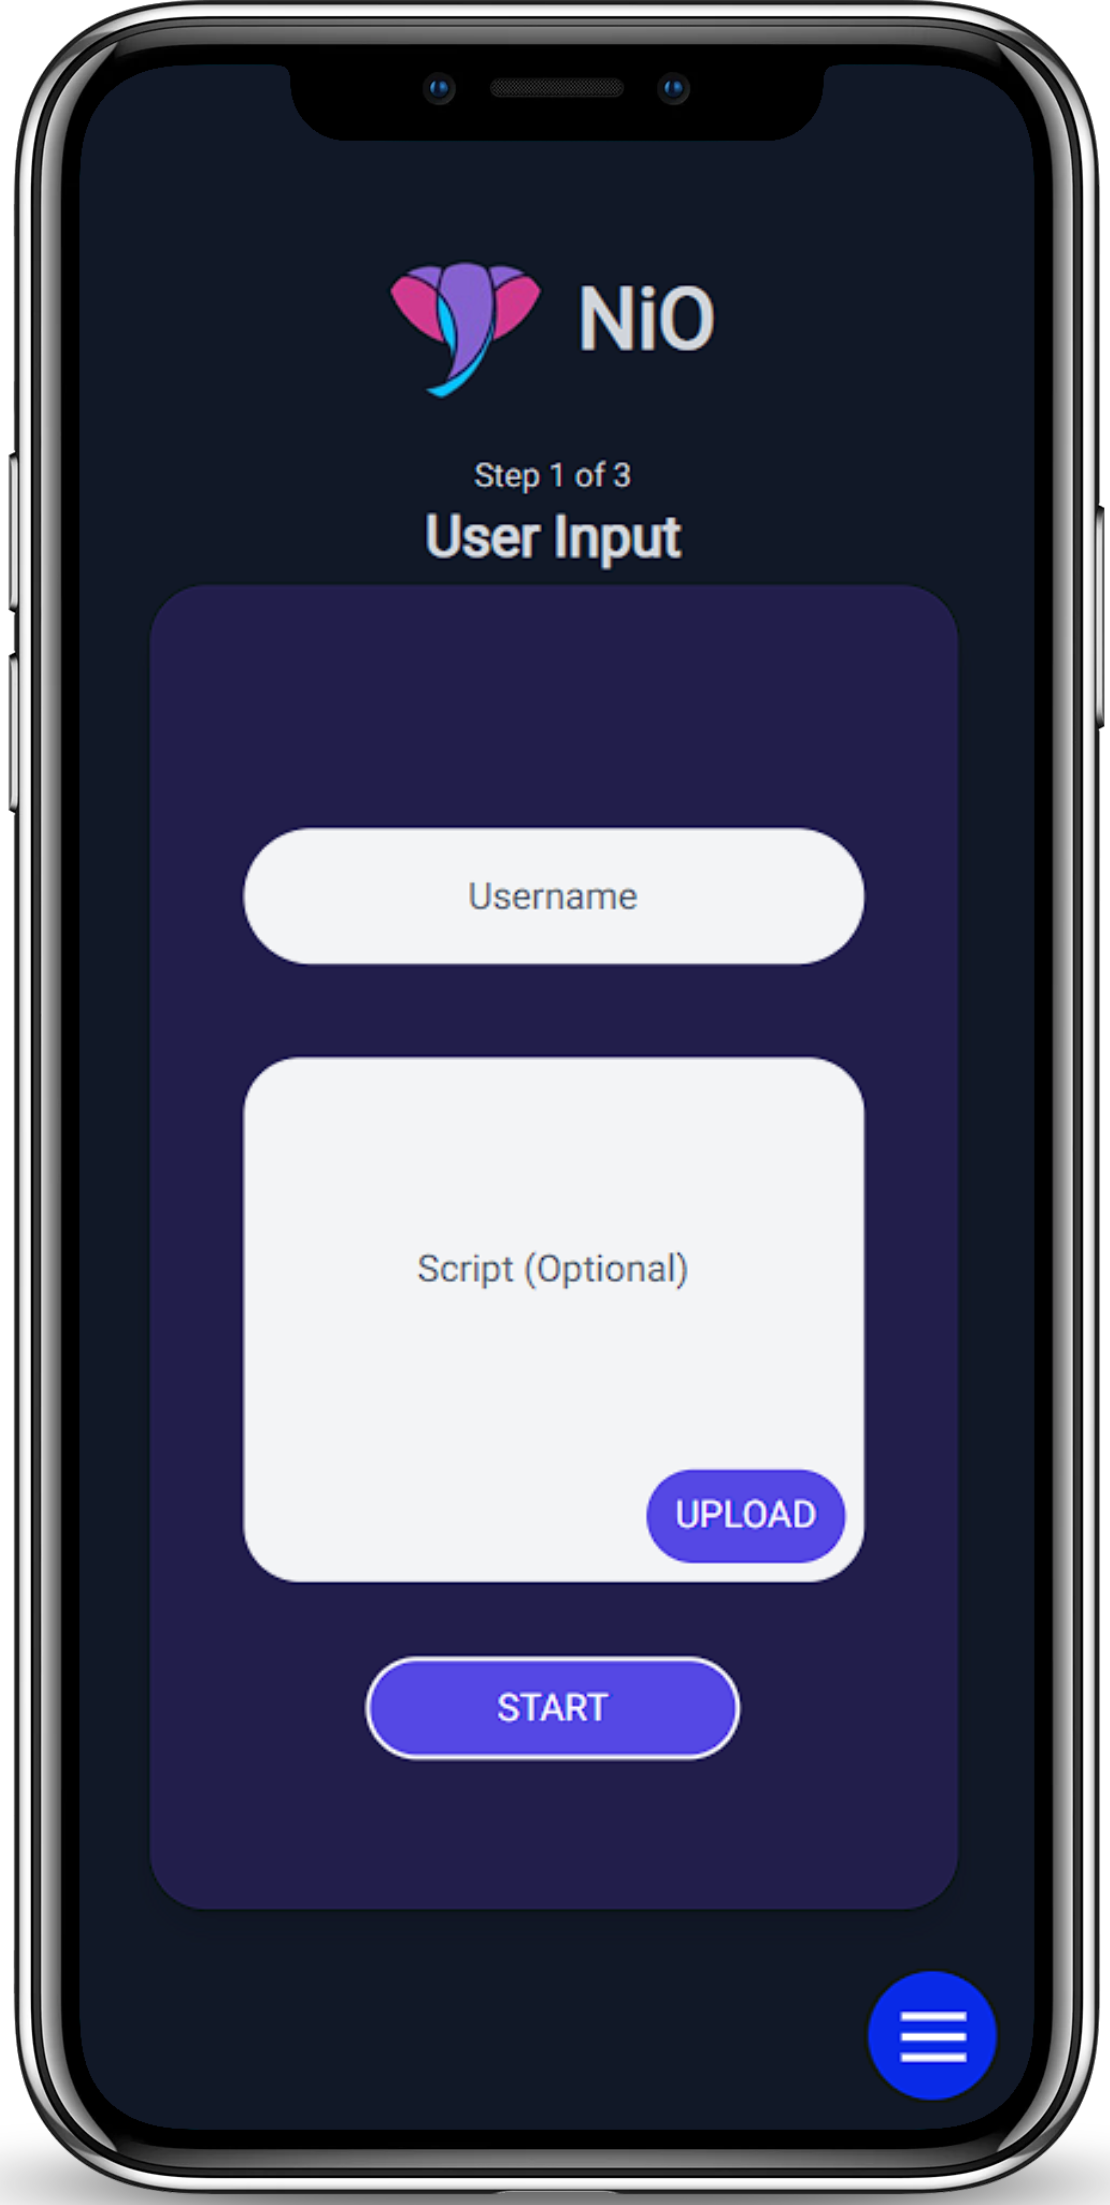
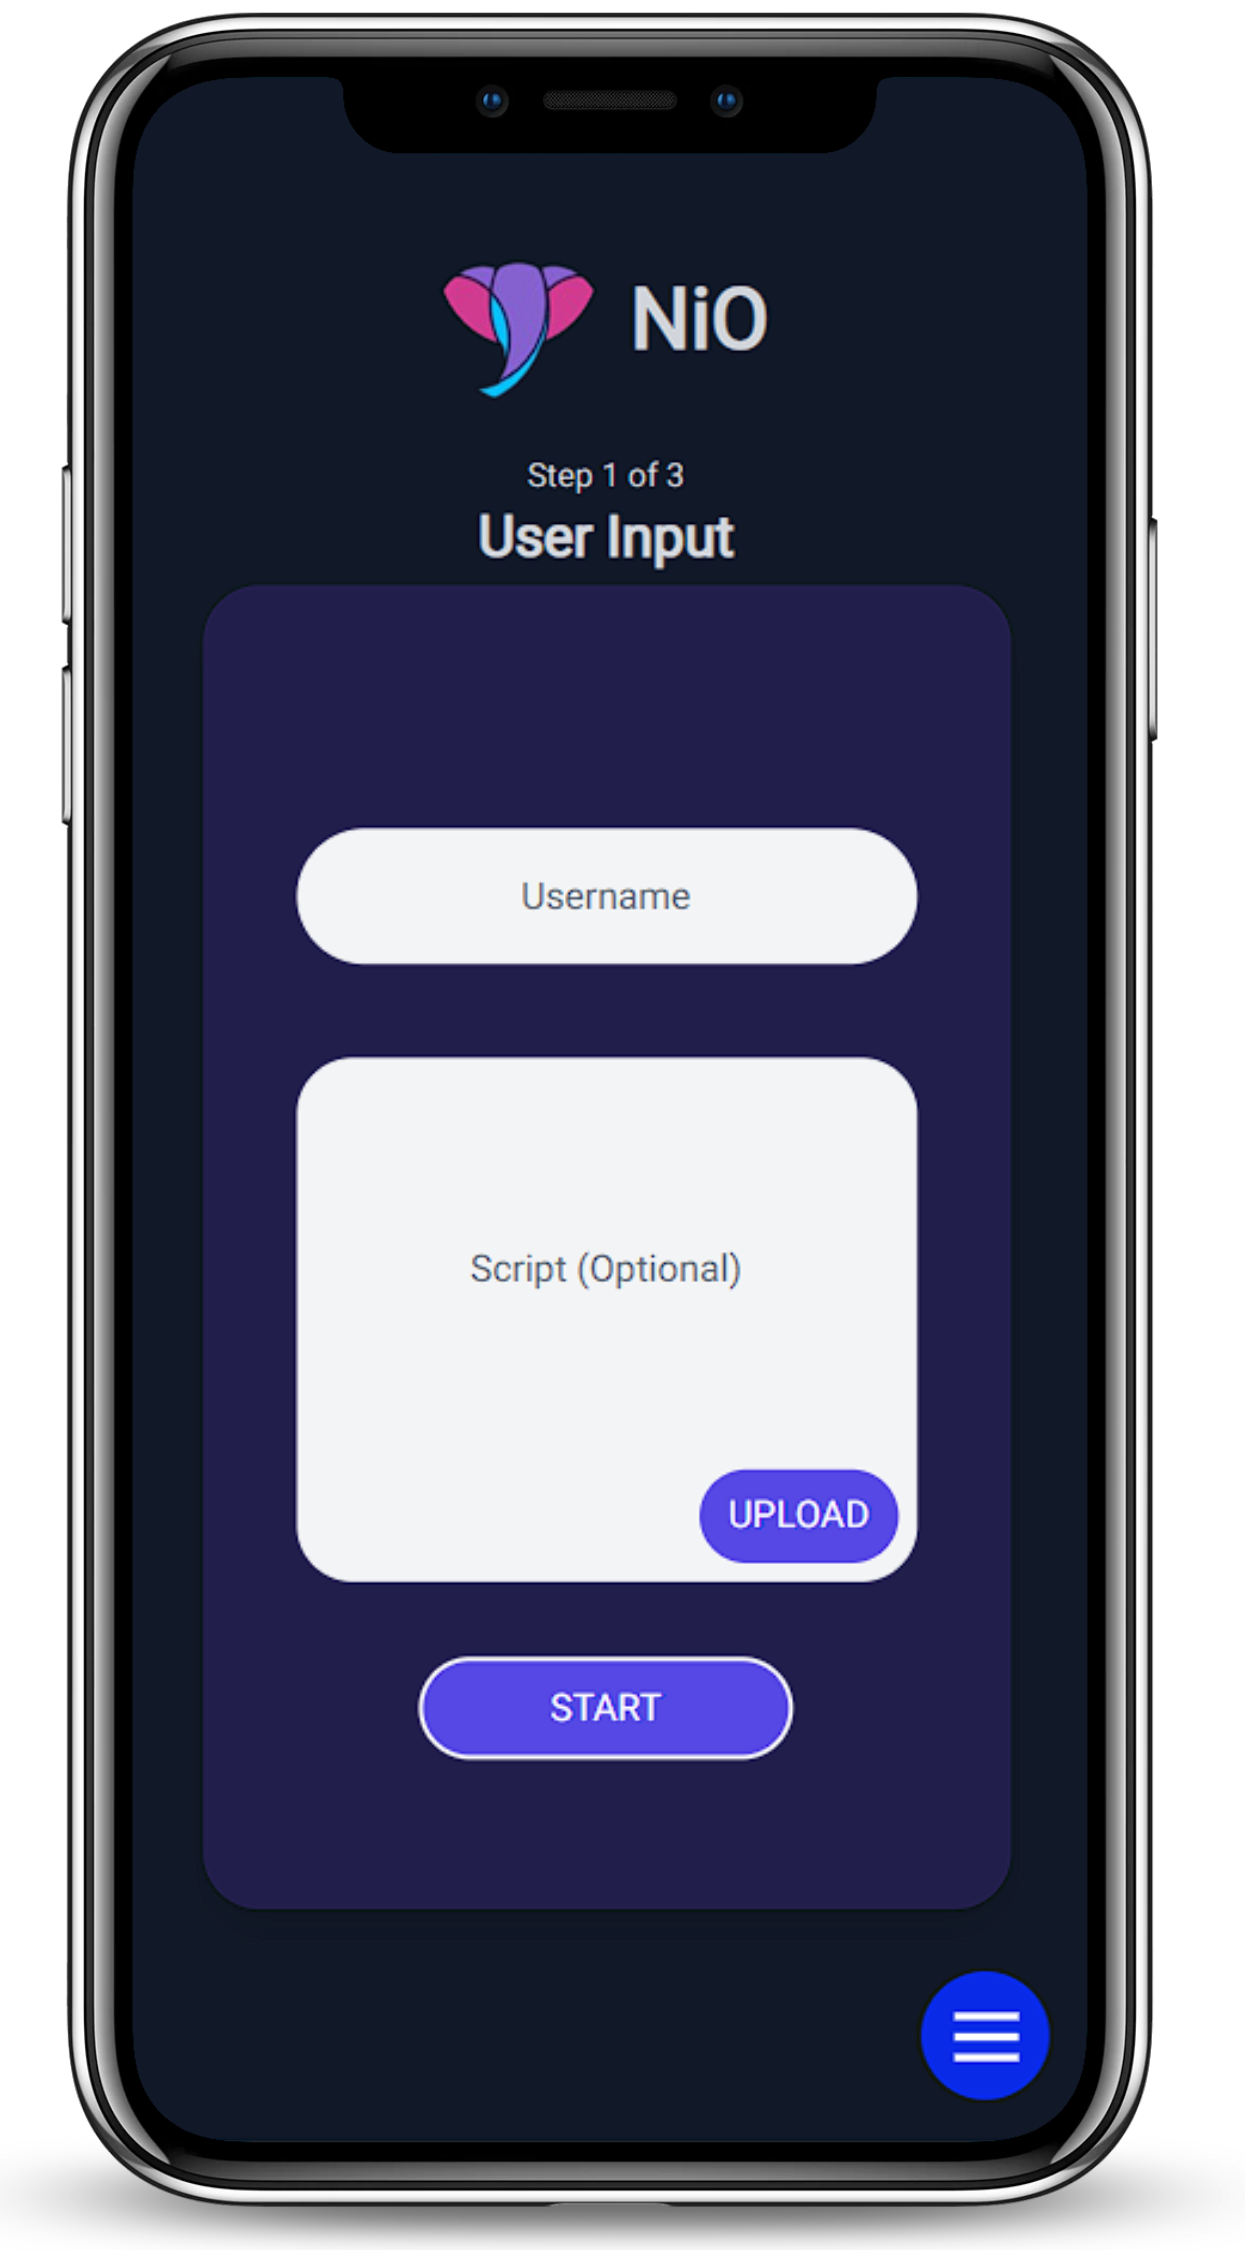
Edits made in get started page: - adjusted the top padding - edited the main picture - edited the pictures to have better shadows

diff --git a/project/templates/main.html b/project/templates/main.html
@@ -27,18 +27,24 @@
       <div
         class="relative z-10 flex flex-col items-center justify-center space-y-8 rounded-xl bg-white p-5 text-center dark:bg-[#2E2868]">
         <div class="text-sm text-gray-400 dark:text-gray-300">Step 2 of 3</div>
-        <div class="text-2xl font-bold capitalize text-gray-700 dark:text-gray-300">Record 1 - 5 minute audio</div>
-        <div id="notif" class="text-xl text-gray-800 dark:text-gray-300">Tap to start recording</div>
-
-        <div class="h-64">
-          <button id="record-btn" class="record" data-state="ready" value="Ready">
-            <span id="record-icon"></span>
-          </button>
-          <div id="reminder" class="mt-2 dark:text-gray-300">For best results, place your microhpone about 6-12 inches from your mouth</div>
-          <div id="countdown" class="mt-2 hidden text-2xl font-bold dark:text-white"></div>
-          <div id="timer" class="mt-2 hidden text-2xl font-bold dark:text-white">00:00</div>
+        <div class="relative">
+          <div class="text-2xl font-bold text-gray-700 dark:text-gray-300" style="padding-bottom: 0">Record your speech</div>
+          <div class="text-sm text-gray-700 dark:text-gray-400" style="padding-top: 0.5rem">Audio should not exceed 5 minutes</div>
         </div>
 
+        <div class="relative">
+          <div id="notif" class="text-xl text-gray-800 dark:text-gray-300" style="padding-bottom: 1.5rem">Tap the button to start recording</div>
+
+          <div class="h-64">
+            <button id="record-btn" class="record" data-state="ready" value="Ready">
+              <span id="record-icon"></span>
+            </button>
+
+            <div id="reminder" class="mt-2 dark:text-gray-300" style="padding-top:1rem">For best results, place your microphone about 6-12 inches from your mouth</div>
+            <div id="countdown" class="mt-2 hidden text-2xl font-bold dark:text-white"></div>
+            <div id="timer" class="mt-2 hidden text-2xl font-bold dark:text-white">00:00</div>
+          </div>
+        </div>
 
         <button data-popover-target="popover-default" type="button" class="text-gray-400 text-center">Privacy Policy</button>
         <div data-popover id="popover-default" role="tooltip" class="absolute z-10 invisible inline-block w-full text-sm text-gray-500 transition-opacity duration-300 bg-white border border-gray-900 rounded-lg shadow-sm opacity-0 dark:text-gray-400 dark:border-gray-600 dark:bg-gray-800">

diff --git a/project/templates/getstarted.html b/project/templates/getstarted.html
@@ -34,7 +34,7 @@
 					<div class="hero-particles-container">
 						<canvas id="hero-particles"></canvas>
 					</div>
-					<div class="container mx-auto px-4 sm:px-6 md:px-8 max-w-xl">
+					<div class="container mx-auto px-4 sm:px-6 md:px-8 max-w-xl" style="margin-top: -6rem;">
 						<div class="relative z-10">
 							<div class="relative mb-12 lg:mb-20">
 <!--								<div class="self-center">-->
@@ -67,7 +67,7 @@
 										alt="iPhone illustration">
 								</div>
 								<img class="device-mockup"
-									src="{{ url_for('static', filename = 'images/iphone-hero1.png') }}"
+									src="{{ url_for('static', filename = 'images/main.png') }}"
 									alt="iPhone Hero">
 							</div>
 						</div>
@@ -94,7 +94,7 @@
 												alt="iPhone Feature 01">
 										</div>
 										<div class="feature-extended-body is-revealing">
-											<div class="secondary-title">Step 1: Enter your username</div>
+											<div class="secondary-title" style="white-space: nowrap;">Step 1: Enter your username</div>
 											<p class="text-[18px]">
 												Input your username to keep track of your progress while practicing.
 												You can also enter a script by typing in the text box or by uploading a
